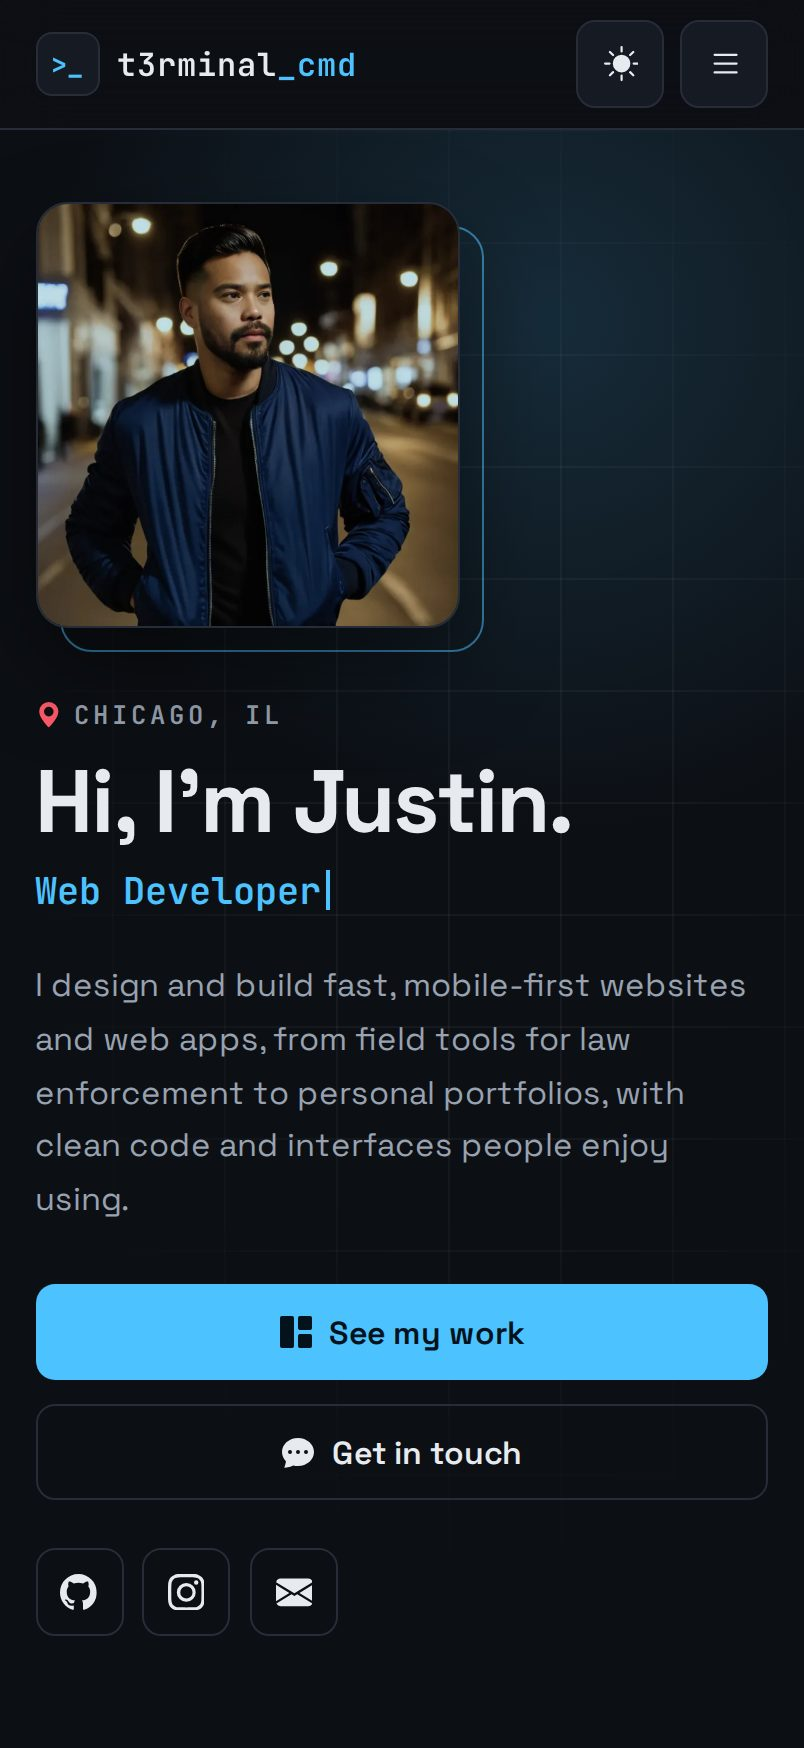
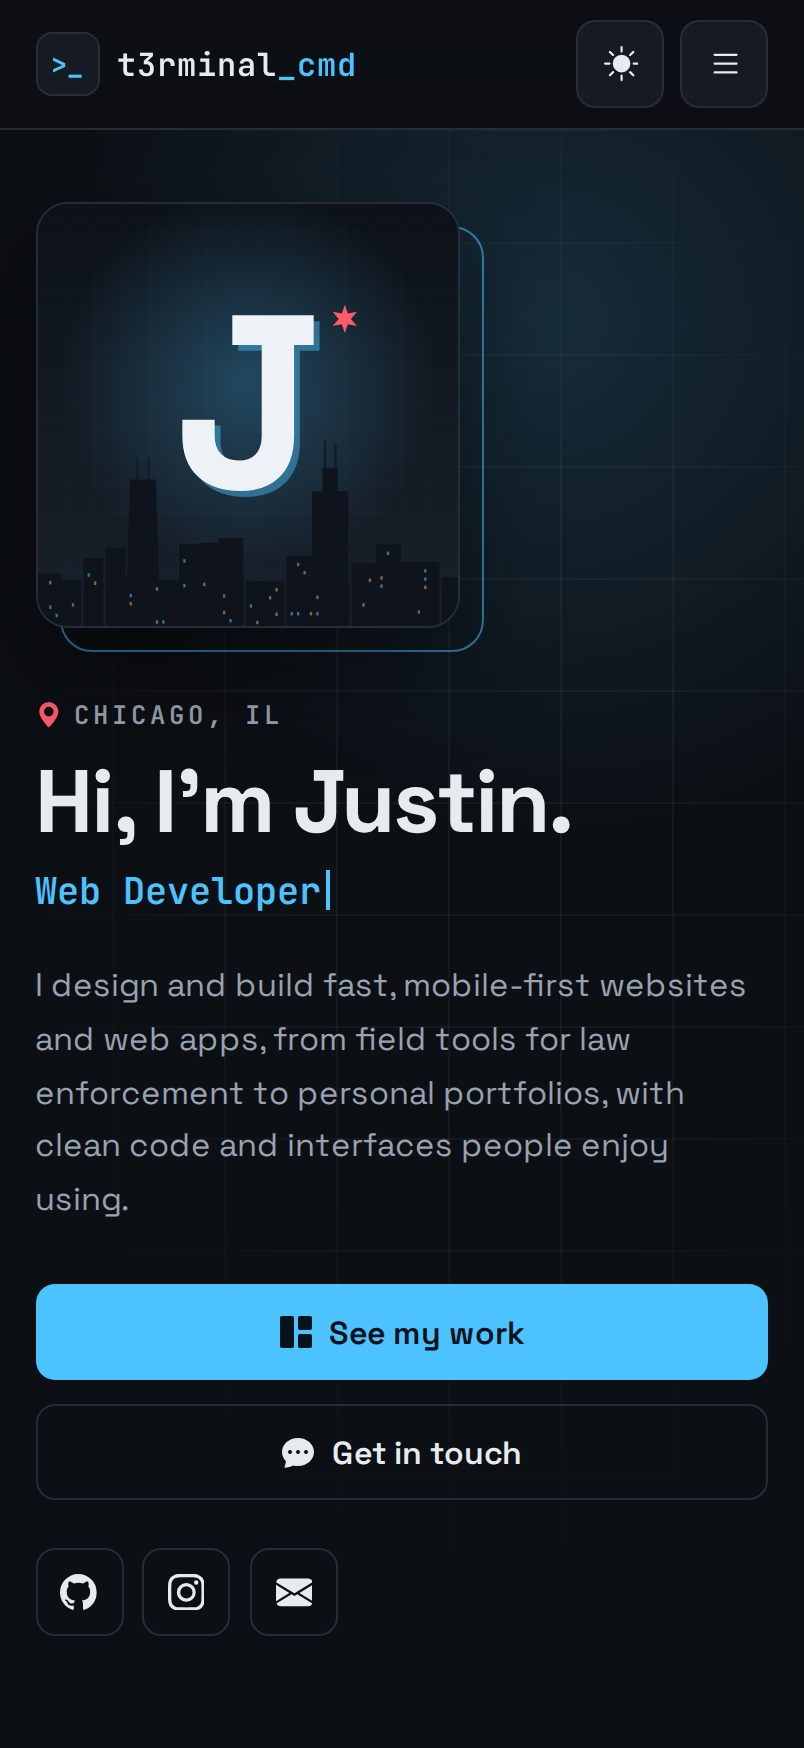
Replace the hero photo with a J monogram and rework the portfolio card
- New avatar: the letter J over a Chicago skyline at night, with a small
  red Chicago star, in the site's colors (assets/img/avatar.svg). The
  old photo is removed.
- New 1200x630 link-preview image with the avatar and name, plus
  og:image size and a large Twitter card.
- The Responsive Portfolio card now shows this site, with a fresh
  screenshot and a link to its code, instead of linking to the older
  portfolio at portfolio-pgarcia.netlify.app.
- README file list, editing notes and screenshots updated.

Claude-Session: https://claude.ai/code/session_01WczYLbDvrap2tUhs166EUz

Changed region(s): [[0.0311, 0.0927, 0.5908, 0.3707]]

diff --git a/index.html b/index.html
@@ -10,7 +10,10 @@
   <!-- SOCIAL PREVIEW -->
   <meta property="og:title" content="Justin | Web Developer & Designer">
   <meta property="og:description" content="Fast, mobile-first websites and web apps from Chicago.">
-  <meta property="og:image" content="https://t3rminal-cmd.github.io/Portfolio-Bootstrap/assets/img/hero.webp">
+  <meta property="og:image" content="https://t3rminal-cmd.github.io/Portfolio-Bootstrap/assets/img/og-image.png">
+  <meta property="og:image:width" content="1200">
+  <meta property="og:image:height" content="630">
+  <meta name="twitter:card" content="summary_large_image">
   <meta property="og:url" content="https://t3rminal-cmd.github.io/Portfolio-Bootstrap/">
   <!-- THEME: set before first paint so there's no flash of the wrong theme.
        Dark is the default; a saved choice or a light device setting wins. -->
@@ -114,7 +117,7 @@
         </div>
 
         <figure class="hero-photo">
-          <img src="assets/img/hero.webp" width="720" height="720" alt="Portrait on a city street at night">
+          <img src="assets/img/avatar.svg" width="720" height="720" alt="Justin's monogram: the letter J over the Chicago skyline at night">
         </figure>
       </div>
     </section>
@@ -201,17 +204,17 @@
           </article>
           <article class="card project">
             <div class="project-media">
-              <img src="assets/img/portfolio.webp" width="960" height="737" loading="lazy" alt="Dark-theme personal portfolio home page">
+              <img src="assets/img/portfolio.webp" width="960" height="600" loading="lazy" alt="This portfolio's home page in dark mode">
             </div>
             <div class="project-body">
               <h3>Responsive Portfolio</h3>
-              <p>A personal portfolio with About, Work and Contact sections, a dark and light theme, and a contact
-                form that opens the visitor's email app. Built mobile-first.</p>
+              <p>This site. A mobile-first portfolio with a dark and light theme, a contact form that sends without
+                leaving the page, and no frameworks: plain HTML, CSS and JavaScript with self-hosted fonts and icons.</p>
               <ul class="chips" aria-label="Built with">
-                <li>HTML</li><li>CSS</li><li>JavaScript</li>
+                <li>HTML</li><li>CSS</li><li>JavaScript</li><li>GitHub Pages</li>
               </ul>
               <div class="project-links">
-                <a class="btn btn-ghost" href="https://portfolio-pgarcia.netlify.app" target="_blank" rel="noopener"><svg class="i" aria-hidden="true"><use href="#i-box-arrow-up-right"/></svg>Live demo</a>
+                <a class="btn btn-ghost" href="https://github.com/t3rminal-cmd/Portfolio-Bootstrap" target="_blank" rel="noopener"><svg class="i" aria-hidden="true"><use href="#i-github"/></svg>Code</a>
               </div>
             </div>
           </article>

diff --git a/README.md b/README.md
@@ -35,7 +35,7 @@ index.html              The whole site, including the icon sprite
 assets/css/styles.css   Theme colors, layout, animations
 assets/js/main.js       Theme toggle, phone menu, typing, nav highlight, reveal, back-to-top, contact form
 assets/fonts/           Space Grotesk and JetBrains Mono (licenses inside)
-assets/img/             Hero photo and project screenshots (WebP)
+assets/img/             Avatar (SVG), link-preview image and project screenshots
 assets/icons/           Favicon and Apple touch icon
 screenshots/            Images used in this README
 ```
@@ -54,6 +54,8 @@ No build step and nothing to install.
 | To change… | Edit |
 |---|---|
 | Intro, About text, projects, skills | `index.html` |
+| Avatar (the "J" monogram) | `assets/img/avatar.svg`. To use a photo instead, add it to `assets/img/` and change the hero `<img>` in `index.html`. |
+| Link preview (shown when the site is shared) | `assets/img/og-image.png`, 1200 × 630 |
 | Typing animation words | `words` in `assets/js/main.js` |
 | Colors (dark and light) | The variables at the top of `assets/css/styles.css`. `--accent` is the blue and `--red` the red. |
 | Contact form destination | The FormSubmit URL in the form's `action` in `index.html` |
